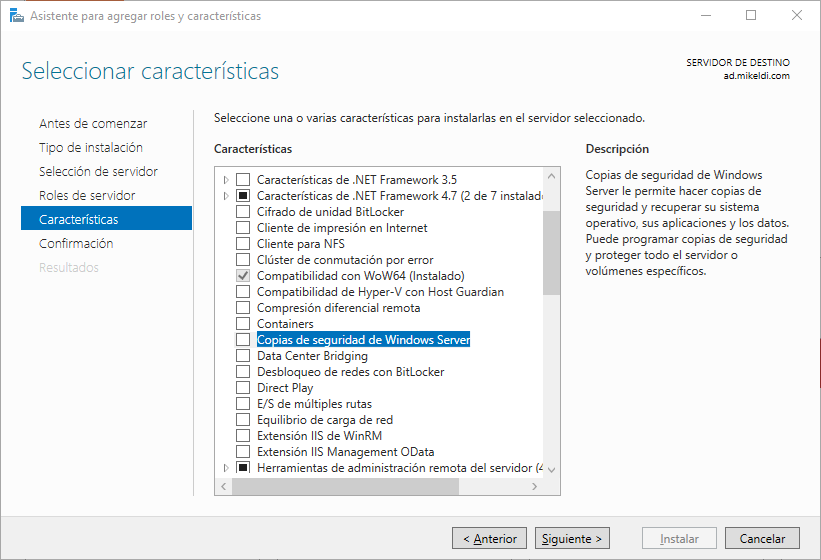
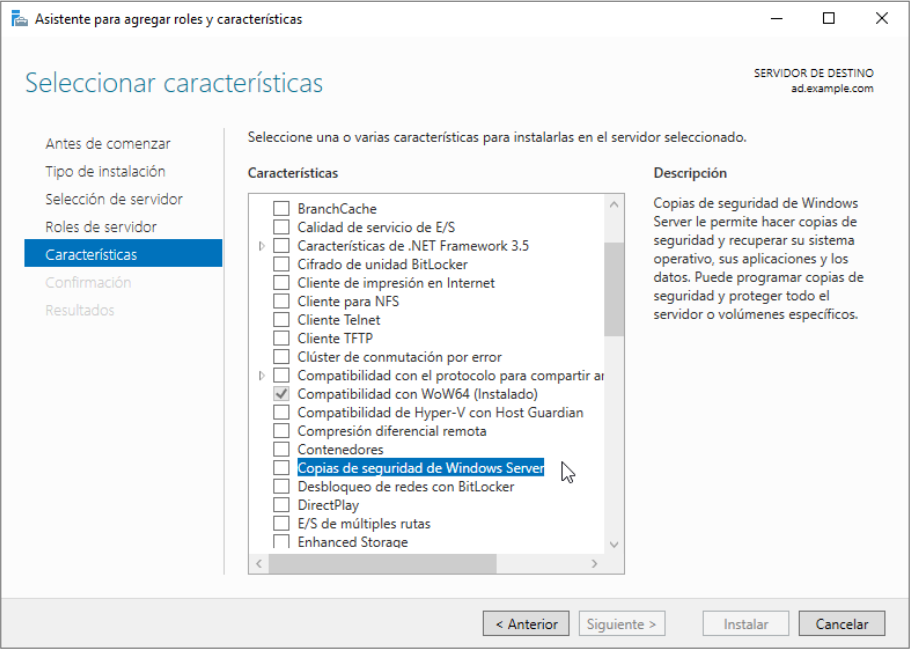
Cambiado todo windows server 2019 a 2022

diff --git a/temas_comunes/windows_server/Windows_Server.tex b/temas_comunes/windows_server/Windows_Server.tex
@@ -244,7 +244,7 @@ En un dominio dado, puede haber varios controladores de dominio asociados, de mo
 \subsection{Árbol}
 Un Árbol es simplemente una colección de dominios que dependen de una raíz común y se encuentran organizados como una determinada jerarquía. Dicha jerarquía también quedará representada por un espacio de nombres DNS común.
 
-De esta forma, sabremos que los dominios \textbf{mikeldi.com} e \textbf{informatica.mikeldi.com} forman parte del mismo árbol, mientras que \textbf{mikeldi.com} y \textbf{linux.org} no.
+De esta forma, sabremos que los dominios \textbf{empresa.com} e \textbf{informatica.empresa.com} forman parte del mismo árbol, mientras que \textbf{empresa.com} y \textbf{linux.com} no.
 
 Si un determinado usuario es creado dentro de un dominio, éste será reconocido automáticamente en todos los dominios que dependan jerárquicamente del dominio al que pertenece.
 
@@ -373,9 +373,9 @@ En el primer paso a la hora de configurar Active Directory aparecen tres opcione
 A la hora de elegir un dominio para nuestro Active Directory existen varias opciones:
 
 \begin{itemize}
-    \item Elegir un \textbf{TLD} (Top Level Domain) válido, registrado a tu empresa. Ejemplo: \textbf{mikeldi.com}
-    \item Usar un \textbf{subdominio de un TLD} válido. Ejemplo: corp.mikeldi.com
-    Usar un \textbf{TLD no válido}. Ejemplo: mikeldi.local, mikeldi.corp, …
+    \item Elegir un \textbf{TLD} (Top Level Domain) válido, registrado a tu empresa. Ejemplo: \textbf{miempresa.com}
+    \item Usar un \textbf{subdominio de un TLD} válido. Ejemplo: corp.miempresa.com
+    Usar un \textbf{TLD no válido}. Ejemplo: miempresa.local, miempresa.corp, …
     \item En principio, y salvo que tengamos una razón para ello, elegiremos la primera opción y le daremos al botón de “Siguiente”.
 \end{itemize}
 
@@ -485,9 +485,9 @@ A partir de ahora, cuando nos vuelva a salir la pantalla para introducir el usua
 Tal como se puede ver, ya nos viene marcado que al introducir el usuario se va a iniciar la sesión en el dominio creado anteriormente. También podremos indicar lo siguiente como nombre de usuario:
 
 \begin{itemize}
-    \item \textbf{usuario@mikeldi.com}: cuando necesitemos iniciar sesión con “usuario” del dominio “mikeldi.com”.
+    \item \textbf{usuario@example.com}: cuando necesitemos iniciar sesión con “usuario” del dominio “example.com”.
     \item \textbf{ruben@dominio.com}: cuando queramos usar como inicio de sesión el usuario “ruben” del dominio “dominio.com”.
-    \item \textbf{.\textbackslash{mikeldi}}: donde el punto hace referencia a iniciar sesión local y “mikeldi” es el usuario administrador local que hemos creado durante la instalación.
+    \item \textbf{.\textbackslash{usuario}}: donde el punto hace referencia a iniciar sesión local y “usuario” es el usuario administrador local que hemos creado durante la instalación.
 \end{itemize}
 
 \chapter{Gestión de grupos y usuarios}
@@ -726,7 +726,7 @@ Es habitual que en una red los usuarios tengan que conectarse a unidades de red.
 Para el ejemplo se ha creado una Unidad Organizativa llamada “Usuarios” y dentro otra llamada “Sistemas” y dentro tenemos un usuario llamado “sysadmin1” que hemos añadido al grupo “sistemas”:
 
 \begin{center}
-    \includegraphics[frame,width=\linewidth]{gpo_1_1.png}
+    \includegraphics[width=\linewidth]{gpo_1_1.png}
 \end{center}
 
 
@@ -755,7 +755,7 @@ Los pasos para crear la GPO son:
     \end{minipage}
     \hfill
     \begin{minipage}{0.37\linewidth}
-        \includegraphics[frame,trim={1 255 0 1},clip,width=\linewidth]{gpo_1_3.png}
+        \includegraphics[frame,width=\linewidth]{gpo_1_3.png}
     \end{minipage}
 }
 
@@ -834,7 +834,7 @@ Para poder actualizar las GPOs de manera remota  vamos a crear una GPO que va a 
 
 Vamos a crear una nueva GPO llamada “Permitir actualizar GPOs desde servidor” y la vamos a crear en la “OU” de “equipos”.
 
-La ruta para crear es: “\textit{Configuración del equipo → Plantillas Administrativas → Red → Conexiones de red → Firewall De Windows Defender → Perfil de dominio → \textbf{Firewall de Windows Defender: permitir excepción de administración remota entrante}}”, la cual habilitaremos pero sólo permitiendo la IP de nuestro servidor. El resumen de la GPO sería el que aparece en la imagen:
+La ruta para crear es: “\textit{Configuración del equipo → Directivas → Plantillas Administrativas → Red → Conexiones de red → Firewall De Windows Defender → Perfil de dominio → \textbf{Firewall de Windows Defender: permitir excepción de administración remota entrante}}”, la cual habilitaremos pero sólo permitiendo la IP de nuestro servidor. El resumen de la GPO sería el que aparece en la imagen:
 
 \begin{center}
     \includegraphics[trim={1 0 0 2},clip,frame,width=14cm]{gpo_3_1.png}
@@ -974,7 +974,7 @@ El cambio de configuración es que los servidores tienen que tener al otro servi
     \vspace{-20pt}
 \end{center}
 
-Tal como se puede ver en la imagen, contamos con dos servidores para el dominio “mikeldi.com”, ambos se replican entre sí y cada uno tiene como DNS principal al otro servidor.
+Tal como se puede ver en la imagen, contamos con dos servidores para el dominio “example.com”, ambos se replican entre sí y cada uno tiene como DNS principal al otro servidor.
 
 Por otro lado, en lo referente a los equipos, la configuración debe ser igual: deben de tener como DNS principal uno de los servidores y como DNS secundario el otro . De esta manera, si el servidor que actúa como DNS principal cae, los equipos realizarán las peticiones al otro servidor. Esta modificación de DNS lo habitual es que se realice mediante el servidor DHCP en lugar de ir equipo por equipo (ya que es una tarea tediosa y fácilmente automatizable).
 
@@ -1105,15 +1105,15 @@ Get-ADUser -filter * | select name
 \end{mycode}
 
 
-Listar todos los usuarios del dominio \textbf{mikeldi.com} del Active Directory:
+Listar todos los usuarios del dominio \textbf{example.com} del Active Directory:
 \begin{mycode}{Listar sólo los  usuarios de un dominio Active Directory}{powershell}{}
-Get-ADUser -filter * -SearchBase "dc=mikeldi,dc=com"
+Get-ADUser -filter * -SearchBase "dc=example,dc=com"
 \end{mycode}
 
 
-Listar todos los usuarios de un OU concreto (tiene que existir esa unidad organizativa) dentro del dominio mikeldi.com (en este caso) Active Directory:
+Listar todos los usuarios de un OU concreto (tiene que existir esa unidad organizativa) dentro del dominio example.com (en este caso) Active Directory:
 \begin{mycode}{Listar sólo los  usuarios de una OU del Active Directory}{powershell}{}
-Get-ADUser -filter * -SearchBase "OU=usuarios,dc=mikeldi,dc=com"
+Get-ADUser -filter * -SearchBase "OU=usuarios,dc=example,dc=com"
 \end{mycode}
 
 Crear el usuario “usuario1” (como no tiene contraseña, se creará deshabilitado):
@@ -1233,7 +1233,7 @@ get-gpo -All
 
 Crear un fichero HTML en c:\  con las configuraciones de todas las GPO:
 \begin{mycode}{Todas las configuraciones de GPOs en formato HTML}{powershell}{}
-get-GPOreport -Domain mikeldi.com -ALL ReportType Html -path c:\gpo.html
+get-GPOreport -Domain example.com -ALL ReportType Html -path c:\gpo.html
 \end{mycode}
 
 Forzar la actualización inmediata de las GPOs en el equipo remoto “win10”
